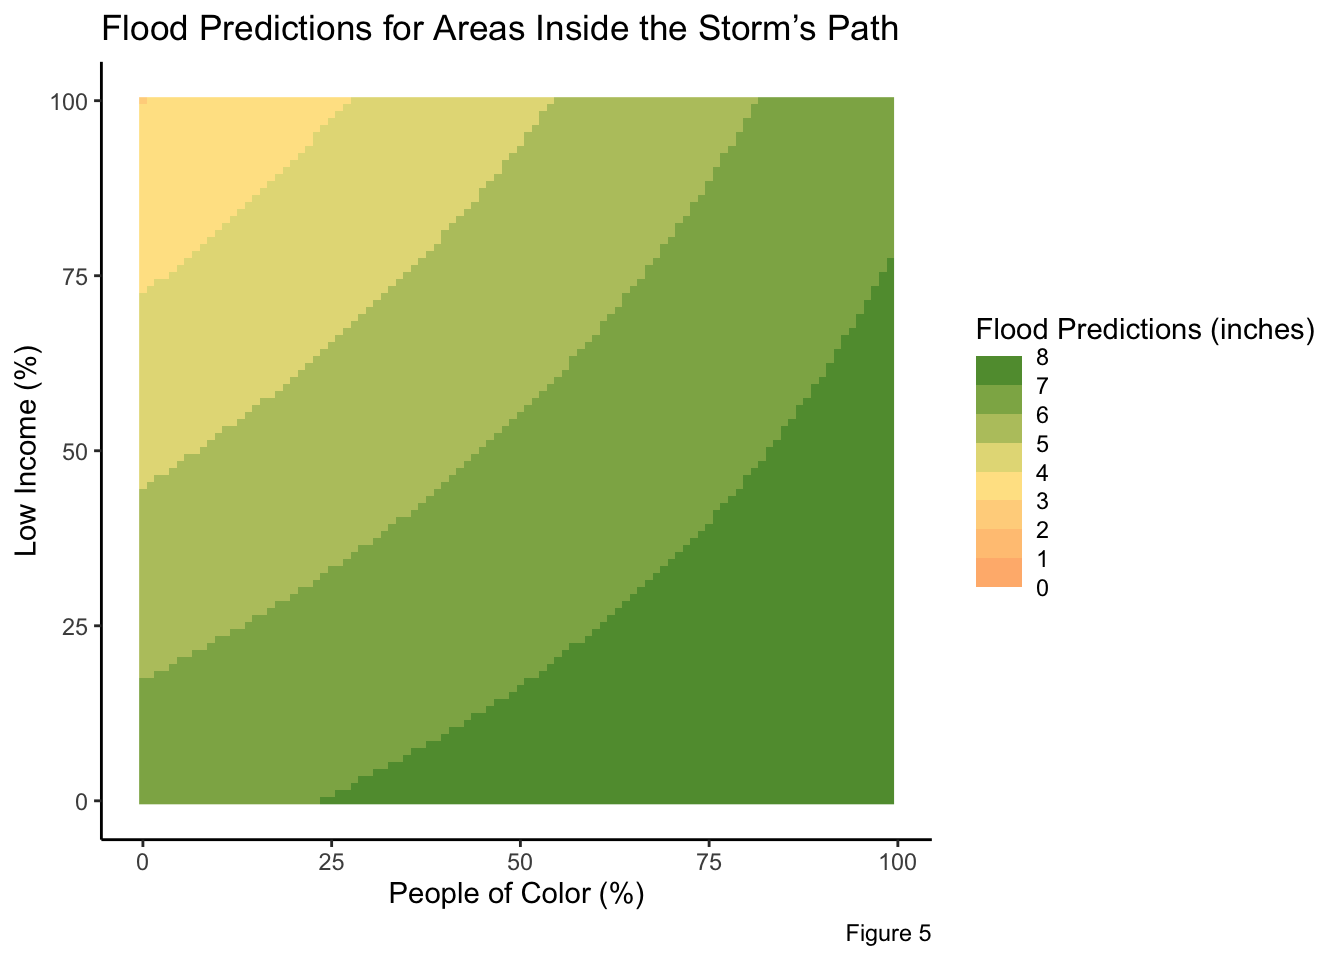
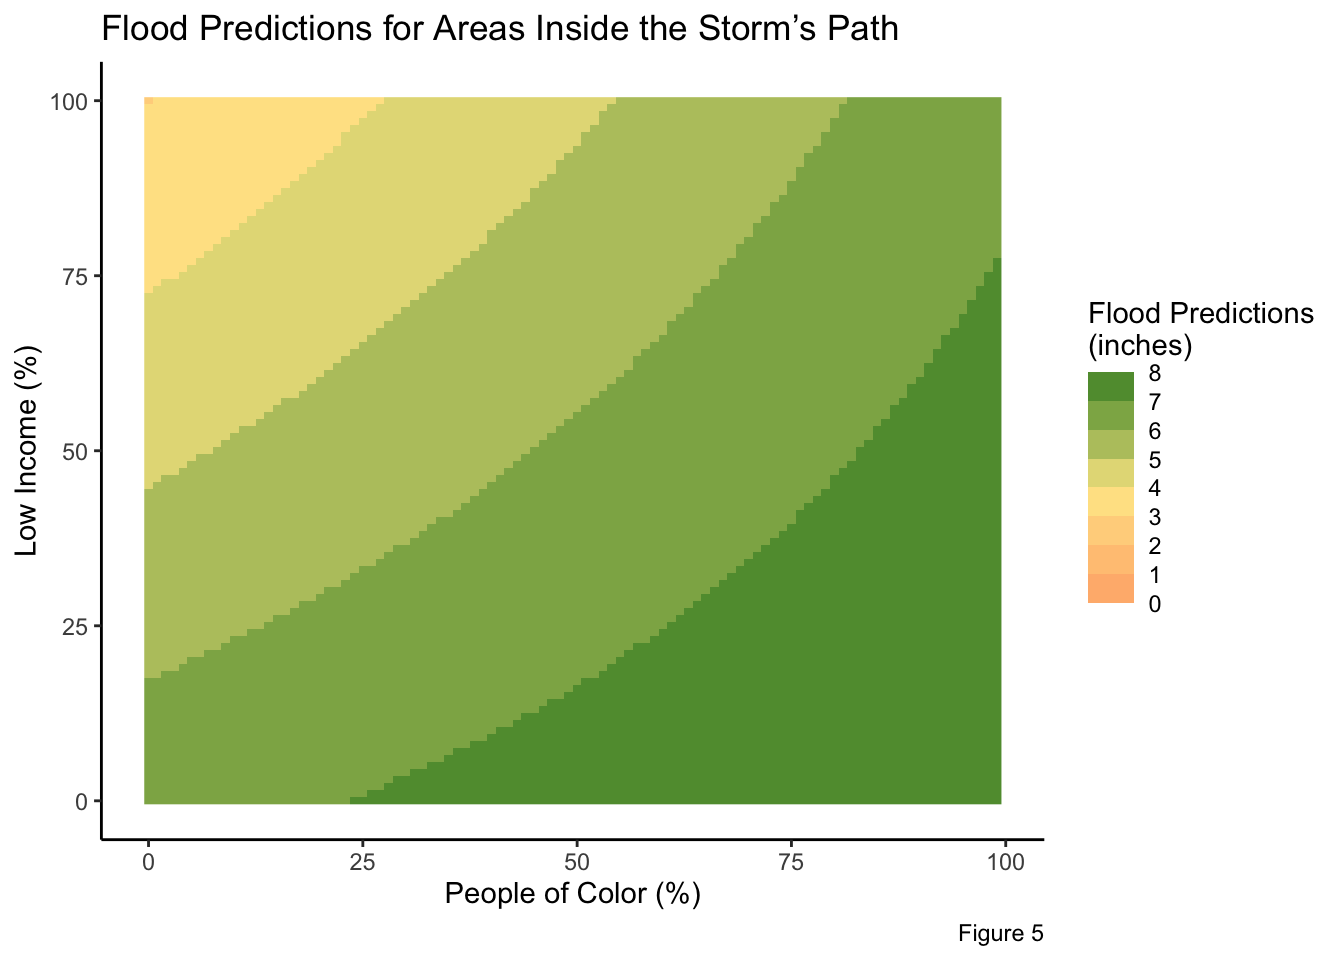
Render all changes

diff --git a/docs/Posts/hur_ian_flooding/index.html b/docs/Posts/hur_ian_flooding/index.html
@@ -192,6 +192,7 @@ window.Quarto = {
    
   <ul>
   <li><a href="#introduction" id="toc-introduction" class="nav-link active" data-scroll-target="#introduction">Introduction</a></li>
+  <li><a href="#statical-notation" id="toc-statical-notation" class="nav-link" data-scroll-target="#statical-notation">Statical Notation</a></li>
   <li><a href="#hypothesis" id="toc-hypothesis" class="nav-link" data-scroll-target="#hypothesis">Hypothesis</a></li>
   <li><a href="#directed-acyclic-gragh-dag" id="toc-directed-acyclic-gragh-dag" class="nav-link" data-scroll-target="#directed-acyclic-gragh-dag">Directed Acyclic Gragh (DAG)</a></li>
   <li><a href="#datasets" id="toc-datasets" class="nav-link" data-scroll-target="#datasets">Datasets</a></li>
@@ -282,28 +283,34 @@ window.Quarto = {
 <p>In Fall of 2022, Hurricane Ian formed south of the Cayman Islands. Reaching Cuba, the storm grew into a Category 2 and 3 (Rafferty, 2022). In less then a week, Hurricane Ian traveled to Florida (FL), hitting its west coast (near Sarasota) as a Category 4 (Rafferty, 2022). It ended its treacherous path in the Carolinas. Ian was a deadly hurricane, bringing 250 km/hr winds, disastrous rainfall, and inundations of 6-14 feet of storm surge (Walls, 2022; Rafferty, 2022; Bucci et al., 2023). About 160 people died, mostly due to drowning in the insane storm surge (Rafferty, 2022 &amp; Bucci et al., 2023). In Florida, there is an estimated $109.5 billion of damges, and $112.9 billion of total damages in the US (Bucci et al., 2023). Furthermore, about 3.28 million people in FL lost power (Bucci et al., 2023). Hurricane Ian left disaster in its wake from Cuba all the way to the Carolinas.</p>
 <p>Dr.&nbsp;Chakraborty studied the injustice of Hurricane Harvey flooding in Houston, Texas. They found race, ethnicity, and socioeconomic status played a role in the spatial distribution of flooding (Chakraborty, Collins, &amp; Grineski, 2019). Black, Hispanic, and socioeconomically disadvantaged residents faced substantially more flooding compared to their counterparts (Chakraborty, Collins, &amp; Grineski, 2019). While rainfall happens everywhere equally, flooding intensity and duration is not equally distributed as community infrastructure, drainage, and food-control investments vary between neighborhoods (Chakraborty, Collins, &amp; Grineski, 2019).</p>
 <p>Inspired by Dr.&nbsp;Chakraborty study, this project aims to investigate the socio-demographics impacts of flooding for Hurricane Ian in Florida. To accomplish this, we will merge flooding data (inches) and census track measurements for easy comparisons. Then, we will run a generalized linear mixed model (glmm). Glmm is a zero-inflated model which means it can manage the 0 values within the dataset. I choose this model because being in the hurricane’s path inherently means flooding. The glmm model will initially look at “does being in the hurricane’s path cause flooding” (a yes or no question) by running a logistic regression. Subsequently, the model will look at “<em>how much</em> impact does the predictors have on flooding” by running a linear regression.</p>
-<p>p_lowincpctp_peopcolorpct ## Statical Notation</p>
+</section>
+<section id="statical-notation" class="level2">
+<h2 class="anchored" data-anchor-id="statical-notation">Statical Notation</h2>
 <p>Statistical Notation for a generalized linear mixed modeling is</p>
-<p><span class="math display">\[
-\begin{align}
+<p>$$ <span class="math display">\[\begin{align}
 \text{BinaryFloodingOutcome} &amp;\sim Binomial(1, p) \\
 logit(p) &amp;= \beta_0 + \beta_1 \text{(Hurricane Path)} \\
 \\
-Flooding &amp;\sim Normal(\mu, \sigma) \\
-\mu &amp;= \beta_0 + \beta_1 (LowIncomePct) + \beta_2 (PofColorPct) + \beta_3 (LowIncomePct * PofColorPct) + \beta_4 (HurricanePath)
-\end{align}
-\]</span></p>
-<p><span class="math display">\[
-\begin{align}
-Flooding &amp;\sim Normal(\mu, \sigma) \\
-\mu &amp;= \beta_0 + \beta_1 * LowIncomePct + \beta_2 * PofColorPct + \beta_3 * (LowIncomePct)(PofColorPct) + \beta_4 * Binomal
-\end{align}
-\]</span></p>
+
+\text{Flooding} &amp;\sim Normal(\mu, \sigma) \\
+\mu &amp;= \beta_0
+  + \beta_1 (\text{LowIncomePct})
+  + \beta_2 (\text{PofColorPct})
+  + \beta_3 (\text{LowIncomePct} \times \text{PofColorPct})
+  + \beta_4 (\text{HurricanePath})
+\end{align}\]</span> $$</p>
 </section>
 <section id="hypothesis" class="level2">
 <h2 class="anchored" data-anchor-id="hypothesis">Hypothesis</h2>
 <p>Areas with higher concentrations of low-income and minority populations are more susceptible to severe flooding when located within the path of a hurricane.</p>
-<p><strong>Alternative Hypothesis:</strong></p>
+<p><strong>Alternative Hypothesis:</strong> There is no relationship between low-income, minority populations, flood intensity between communities within versus outside of the Hurricane’s path. <span class="math display">\[
+\begin{align}
+\beta_1 = 0 \\
+\beta_2 = 0 \\
+\beta_3 = 0) \\
+\beta_4 = 0
+\end{align}
+\]</span></p>
 </section>
 <section id="directed-acyclic-gragh-dag" class="level2">
 <h2 class="anchored" data-anchor-id="directed-acyclic-gragh-dag">Directed Acyclic Gragh (DAG)</h2>
@@ -316,8 +323,8 @@ Flooding &amp;\sim Normal(\mu, \sigma) \\
 </div>
 </div>
 </div>
-<p>While precipitation is based on natural occurrences and happen everywhere with no bias, flooding intensity can be reliant on other human built mechanisms. Places that lack green spaces and open soil, filling their neighborhoods with more impervious surface, increase there likelihood to flood because the water cannot soak into the ground. Roe, Aspinall, &amp; Ward Thompson find that poorer, minority communities lack open green spaces (2016), which might disproportionately cause lower income, minority communities to flood more. Flood migration infrastructure (such as levees, storm drains, retention ponds, and seawalls) are important tools that influence flood severity. Poor communities tend to have limited financial resources and lack political leverage to advocate for flood mitigation projects in their communities which could cause them to experiencing more intense flooding. Finally, minority communities can face structural inequities and redlining that cause infrastructure improvement to go ‘unnoticed,’ increasing their likelihood to flood. Thus, a population’s percentage of low income and people of color could impact their flooding intensity.</p>
-<p>The final predictor in this model indicates whether a location lies within the hurricane’s path. Closer to the center of the Hurricane, conditions intensify, causing stronger rainfall and wind-force. Hence, areas that intersect along the hurricane’s path will (most likely) experience more flooding.</p>
+<p>While precipitation is based on natural occurrences and happen everywhere with no bias, flooding intensity can be reliant on other human built mechanisms. Places that lack green spaces and open soil, fill their neighborhoods with impervious surfaces, increase there likelihood to flood because the water cannot soak into the ground. Roe, Aspinall, &amp; Ward Thompson find that poorer, minority communities lack open green spaces (2016), which might disproportionately cause lower income, minority communities to flood more. Flood migration infrastructure (such as levees, storm drains, retention ponds, and seawalls) are important tools that influence flood severity. Poor communities tend to have limited financial resources and lack political leverage to advocate for flood mitigation projects in their communities which could result in more intense flooding. Finally, minority communities can face structural inequities and redlining that cause infrastructure improvement to go ‘unnoticed,’ increasing their likelihood to flood. Thus, a population’s percentage of low income and people of color could impact the flooding intensity.</p>
+<p>The final predictor in this model indicates whether a location lies within the hurricane’s path. Closer to the center of the hurricane, conditions intensify, causing stronger rainfall and wind-force. Hence, areas that intersect along the hurricane’s path will (most likely) experience more flooding.</p>
 <div class="cell">
 <div class="cell-output-display">
 <div>
@@ -824,7 +831,7 @@ Flooding &amp;\sim Normal(\mu, \sigma) \\
 <span id="cb25-13"><a href="#cb25-13" aria-hidden="true" tabindex="-1"></a>  <span class="fu">labs</span>(<span class="at">title =</span> <span class="st">"Flood Predictions for Areas Inside the Storm’s Path"</span>, </span>
 <span id="cb25-14"><a href="#cb25-14" aria-hidden="true" tabindex="-1"></a>       <span class="at">x =</span> <span class="st">"People of Color (%)"</span>, </span>
 <span id="cb25-15"><a href="#cb25-15" aria-hidden="true" tabindex="-1"></a>       <span class="at">y =</span> <span class="st">"Low Income (%)"</span>, </span>
-<span id="cb25-16"><a href="#cb25-16" aria-hidden="true" tabindex="-1"></a>       <span class="at">fill =</span> <span class="st">"Flood Predictions (inches)"</span>, </span>
+<span id="cb25-16"><a href="#cb25-16" aria-hidden="true" tabindex="-1"></a>       <span class="at">fill =</span> <span class="st">"Flood Predictions</span><span class="sc">\n</span><span class="st">(inches)"</span>, </span>
 <span id="cb25-17"><a href="#cb25-17" aria-hidden="true" tabindex="-1"></a>       <span class="at">caption =</span> <span class="st">"Figure 5"</span></span>
 <span id="cb25-18"><a href="#cb25-18" aria-hidden="true" tabindex="-1"></a>       )</span></code></pre></div><button title="Copy to Clipboard" class="code-copy-button"><i class="bi"></i></button></div>
 </details>
@@ -852,7 +859,7 @@ Flooding &amp;\sim Normal(\mu, \sigma) \\
 <span id="cb26-13"><a href="#cb26-13" aria-hidden="true" tabindex="-1"></a>   <span class="fu">labs</span>(<span class="at">title =</span> <span class="st">"Flood Predictions for Areas Outside the Storm’s Path"</span>, </span>
 <span id="cb26-14"><a href="#cb26-14" aria-hidden="true" tabindex="-1"></a>       <span class="at">x =</span> <span class="st">"People of Color (%)"</span>, </span>
 <span id="cb26-15"><a href="#cb26-15" aria-hidden="true" tabindex="-1"></a>       <span class="at">y =</span> <span class="st">"Low Income (%)"</span>, </span>
-<span id="cb26-16"><a href="#cb26-16" aria-hidden="true" tabindex="-1"></a>       <span class="at">fill =</span> <span class="st">"Flood Predictions (inches)"</span>, </span>
+<span id="cb26-16"><a href="#cb26-16" aria-hidden="true" tabindex="-1"></a>       <span class="at">fill =</span> <span class="st">"Flood Predictions</span><span class="sc">\n</span><span class="st">(inches)"</span>, </span>
 <span id="cb26-17"><a href="#cb26-17" aria-hidden="true" tabindex="-1"></a>       <span class="at">caption =</span> <span class="st">"Figure 6"</span></span>
 <span id="cb26-18"><a href="#cb26-18" aria-hidden="true" tabindex="-1"></a>       )</span></code></pre></div><button title="Copy to Clipboard" class="code-copy-button"><i class="bi"></i></button></div>
 </details>

diff --git a/docs/posts.html b/docs/posts.html
@@ -243,7 +243,7 @@ Dec 4, 2025
 </div>
 </div></a>
 </div>
-<div class="g-col-1" data-index="1" data-categories="TUVEUyUyQ1IlMkNzdGF0cw==" data-listing-date-sort="1764835200000" data-listing-file-modified-sort="1764929870715" data-listing-date-modified-sort="NaN" data-listing-reading-time-sort="22" data-listing-word-count-sort="4335">
+<div class="g-col-1" data-index="1" data-categories="TUVEUyUyQ1IlMkNzdGF0cw==" data-listing-date-sort="1764835200000" data-listing-file-modified-sort="1764930830684" data-listing-date-modified-sort="NaN" data-listing-reading-time-sort="22" data-listing-word-count-sort="4339">
 <a href="./Posts/hur_ian_flooding/index.html" class="quarto-grid-link">
 <div class="quarto-grid-item card h-100 card-left">
 <p class="card-img-top">
